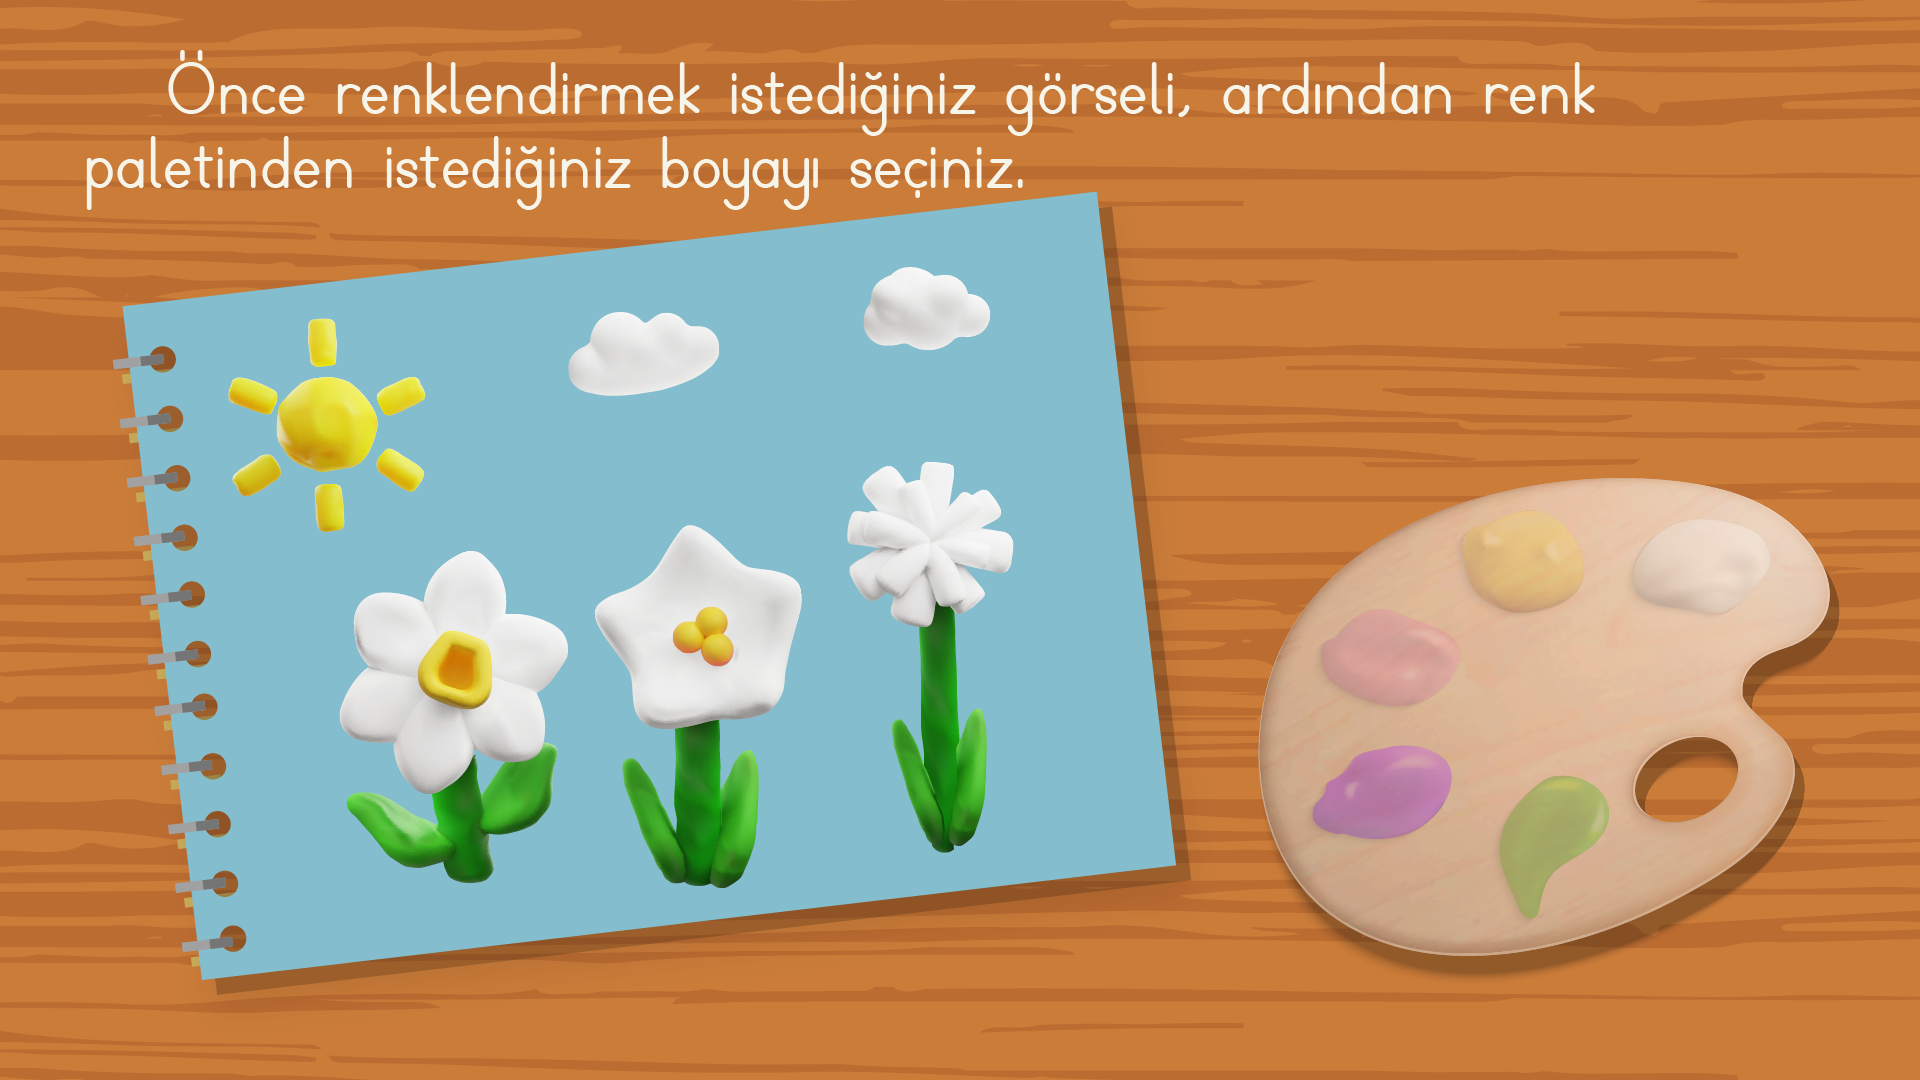
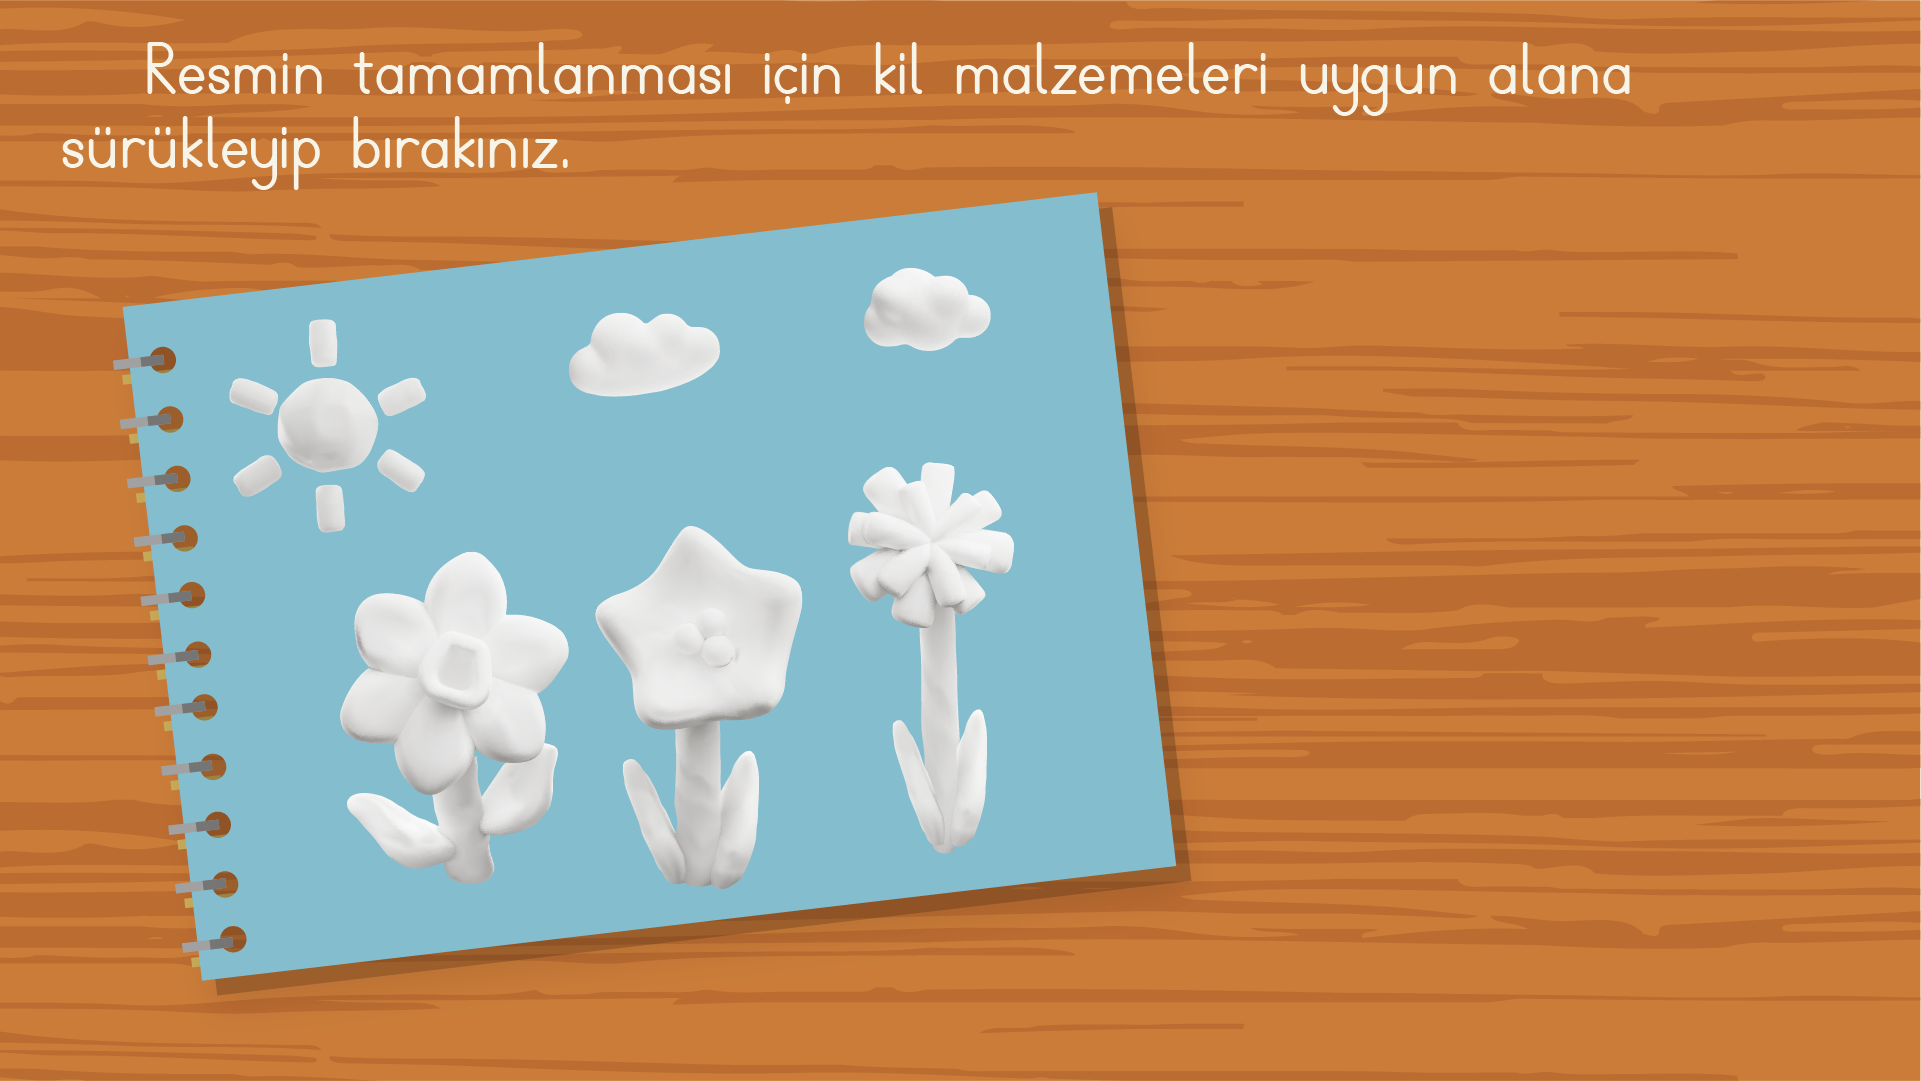
Yönergeler Düzeltildi, Fırça Eklendi

diff --git a/scripts/c3runtime.js b/scripts/c3runtime.js
@@ -4255,14 +4255,17 @@ self.C3_GetObjectRefTable = function () {
 		C3.Plugins.Browser.Acts.CancelFullScreen,
 		C3.Plugins.Audio.Acts.SetPaused,
 		C3.Plugins.System.Acts.SetVar,
+		C3.Plugins.System.Acts.RestartLayout,
+		C3.Plugins.System.Acts.AddVar,
 		C3.Behaviors.DragnDrop.Cnds.OnDragStart,
 		C3.Plugins.Sprite.Exps.X,
 		C3.Plugins.Sprite.Exps.Y,
 		C3.Behaviors.DragnDrop.Cnds.OnDrop,
 		C3.Plugins.Sprite.Cnds.IsOverlapping,
 		C3.Plugins.Sprite.Acts.SetPos,
-		C3.Plugins.System.Acts.AddVar,
-		C3.Plugins.System.Cnds.CompareVar
+		C3.Plugins.System.Cnds.CompareVar,
+		C3.Plugins.Mouse.Exps.X,
+		C3.Plugins.Mouse.Exps.Y
 	];
 };
 self.C3_JsPropNameTable = [
@@ -4278,6 +4281,8 @@ self.C3_JsPropNameTable = [
 	{ortadakiCicek: 0},
 	{gunes: 0},
 	{paletRenkler: 0},
+	{oyun_sonu: 0},
+	{firca: 0},
 	{kapla: 0},
 	{btnFullScreen: 0},
 	{Touch: 0},
@@ -4300,12 +4305,15 @@ self.C3_JsPropNameTable = [
 	{konuAnlatimi: 0},
 	{btnGeri: 0},
 	{btnIleri: 0},
+	{btnEtkinligiBitir: 0},
+	{btnYenidenBasla: 0},
 	{butonlar: 0},
 	{boyanacaklar: 0},
 	{x1: 0},
 	{y1: 0},
 	{puan: 0},
-	{renk: 0}
+	{renk: 0},
+	{tik_sayisi: 0}
 ];
 
 self.InstanceType = {
@@ -4320,6 +4328,8 @@ self.InstanceType = {
 	ortadakiCicek: class extends self.ISpriteInstance {},
 	gunes: class extends self.ISpriteInstance {},
 	paletRenkler: class extends self.ISpriteInstance {},
+	oyun_sonu: class extends self.ISpriteInstance {},
+	firca: class extends self.ISpriteInstance {},
 	btnFullScreen: class extends self.ISpriteInstance {},
 	Touch: class extends self.IInstance {},
 	Mouse: class extends self.IInstance {},
@@ -4340,6 +4350,8 @@ self.InstanceType = {
 	konuAnlatimi: class extends self.ISpriteInstance {},
 	btnGeri: class extends self.ISpriteInstance {},
 	btnIleri: class extends self.ISpriteInstance {},
+	btnEtkinligiBitir: class extends self.ISpriteInstance {},
+	btnYenidenBasla: class extends self.ISpriteInstance {},
 	butonlar: class extends self.ISpriteInstance {},
 	boyanacaklar: class extends self.ISpriteInstance {}
 }
@@ -4469,6 +4481,7 @@ self.C3_ExpressionFuncs = [
 		() => "muzik",
 		() => "oyun_1",
 		() => "oyun_2",
+		() => "bos",
 		p => {
 			const n0 = p._GetNode(0);
 			return () => n0.ExpObject();
@@ -4477,7 +4490,12 @@ self.C3_ExpressionFuncs = [
 			const v0 = p._GetNode(0).GetVar();
 			return () => v0.GetValue();
 		},
-		() => 5
+		() => 2,
+		p => {
+			const f0 = p._GetNode(0).GetBoundMethod();
+			return () => f0();
+		},
+		() => 4
 ];
 
 
